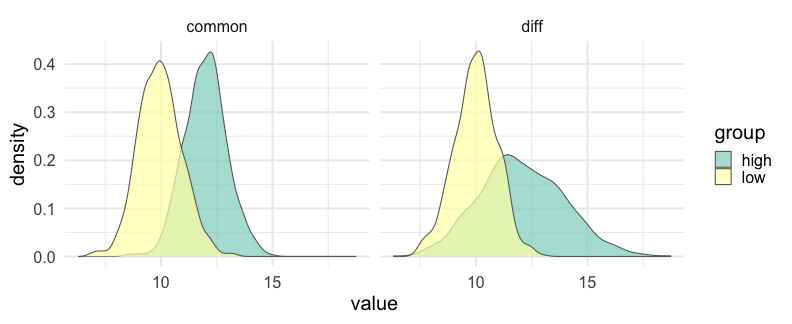
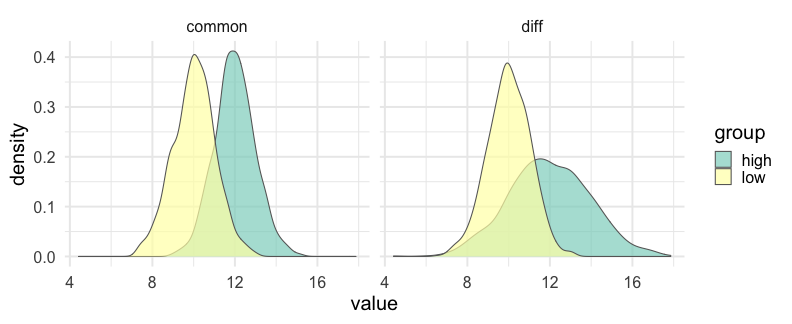
Minor updates to pkg dev slides

diff --git a/static/slides/w10p2.html b/static/slides/w10p2.html
@@ -58,6 +58,12 @@ layout: true
 ---
 # Agenda
 
+* Basics of package development
+
+* An example from my first CRAN package
+
+* Creating a package (we'll actually do it!)
+
 ---
 # Want to follow along?
 
@@ -148,12 +154,12 @@ head(d)
 ## # A tibble: 6 x 3
 ##         low     high var   
 ##       &lt;dbl&gt;    &lt;dbl&gt; &lt;chr&gt; 
-## 1  9.549110 13.50911 common
-## 2  9.350832 12.93887 common
-## 3 10.40181  12.20612 common
-## 4 10.81037  10.52069 common
-## 5 10.79728  12.71338 common
-## 6  9.672677 10.68060 common
+## 1  7.855059 10.69834 common
+## 2 10.40831  11.51090 common
+## 3  9.980279 10.84525 common
+## 4 10.76777  13.45303 common
+## 5  9.934628 11.16377 common
+## 6  9.520182 10.47681 common
 ```
 
 ---
@@ -174,16 +180,16 @@ d
 ## # A tibble: 4,000 x 3
 ##    var    group     value
 ##    &lt;chr&gt;  &lt;chr&gt;     &lt;dbl&gt;
-##  1 common low    9.549110
-##  2 common high  13.50911 
-##  3 common low    9.350832
-##  4 common high  12.93887 
-##  5 common low   10.40181 
-##  6 common high  12.20612 
-##  7 common low   10.81037 
-##  8 common high  10.52069 
-##  9 common low   10.79728 
-## 10 common high  12.71338 
+##  1 common low    7.855059
+##  2 common high  10.69834 
+##  3 common low   10.40831 
+##  4 common high  11.51090 
+##  5 common low    9.980279
+##  6 common high  10.84525 
+##  7 common low   10.76777 
+##  8 common high  13.45303 
+##  9 common low    9.934628
+## 10 common high  11.16377 
 ## # … with 3,990 more rows
 ```
 
@@ -237,14 +243,15 @@ binned_es(common, value ~ group)
 
 ```
 ## # A tibble: 6 x 11
-##       q  qtile_lb  qtile_ub group_ref group_foc mean_diff length length1       psd        es      es_se
-##   &lt;dbl&gt;     &lt;dbl&gt;     &lt;dbl&gt; &lt;chr&gt;     &lt;chr&gt;         &lt;dbl&gt;  &lt;int&gt;   &lt;int&gt;     &lt;dbl&gt;     &lt;dbl&gt;      &lt;dbl&gt;
-## 1     1 0         0.3333333 high      low       -2.048922   1000    1000 0.9650763 -2.122271 0.05591828
-## 2     2 0.3333333 0.6666667 high      low       -2.080733   1000    1000 0.9650763 -2.155220 0.05623269
-## 3     3 0.6666667 1         high      low       -1.992408   1000    1000 0.9650763 -2.063733 0.05536739
-## 4     1 0         0.3333333 low       high       2.048922   1000    1000 0.9650763  2.122271 0.05591828
-## 5     2 0.3333333 0.6666667 low       high       2.080733   1000    1000 0.9650763  2.155220 0.05623269
-## 6     3 0.6666667 1         low       high       1.992408   1000    1000 0.9650763  2.063733 0.05536739
+##       q  qtile_lb  qtile_ub group_ref group_foc mean_diff length length1
+##   &lt;dbl&gt;     &lt;dbl&gt;     &lt;dbl&gt; &lt;chr&gt;     &lt;chr&gt;         &lt;dbl&gt;  &lt;int&gt;   &lt;int&gt;
+## 1     1 0         0.3333333 high      low       -2.035098   1000    1000
+## 2     2 0.3333333 0.6666667 high      low       -1.930967   1000    1000
+## 3     3 0.6666667 1         high      low       -1.957844   1000    1000
+## 4     1 0         0.3333333 low       high       2.035098   1000    1000
+## 5     2 0.3333333 0.6666667 low       high       1.930967   1000    1000
+## 6     3 0.6666667 1         low       high       1.957844   1000    1000
+## # … with 3 more variables: psd &lt;dbl&gt;, es &lt;dbl&gt;, es_se &lt;dbl&gt;
 ```
 
 ```r
@@ -253,14 +260,15 @@ binned_es(diff, value ~ group)
 
 ```
 ## # A tibble: 6 x 11
-##       q  qtile_lb  qtile_ub group_ref group_foc mean_diff length length1      psd         es      es_se
-##   &lt;dbl&gt;     &lt;dbl&gt;     &lt;dbl&gt; &lt;chr&gt;     &lt;chr&gt;         &lt;dbl&gt;  &lt;int&gt;   &lt;int&gt;    &lt;dbl&gt;      &lt;dbl&gt;      &lt;dbl&gt;
-## 1     1 0         0.3333333 high      low       -1.098328   1000    1000 1.498662 -0.7325977 0.04619822
-## 2     2 0.3333333 0.6666667 high      low       -1.967218   1000    1000 1.498662 -1.312157  0.04930276
-## 3     3 0.6666667 1         high      low       -3.133526   1000    1000 1.498662 -2.090098  0.05561428
-## 4     1 0         0.3333333 low       high       1.098328   1000    1000 1.498662  0.7325977 0.04619822
-## 5     2 0.3333333 0.6666667 low       high       1.967218   1000    1000 1.498662  1.312157  0.04930276
-## 6     3 0.6666667 1         low       high       3.133526   1000    1000 1.498662  2.090098  0.05561428
+##       q  qtile_lb  qtile_ub group_ref group_foc  mean_diff length length1
+##   &lt;dbl&gt;     &lt;dbl&gt;     &lt;dbl&gt; &lt;chr&gt;     &lt;chr&gt;          &lt;dbl&gt;  &lt;int&gt;   &lt;int&gt;
+## 1     1 0         0.3333333 high      low       -0.9691199   1000    1000
+## 2     2 0.3333333 0.6666667 high      low       -1.922010    1000    1000
+## 3     3 0.6666667 1         high      low       -2.981083    1000    1000
+## 4     1 0         0.3333333 low       high       0.9691199   1000    1000
+## 5     2 0.3333333 0.6666667 low       high       1.922010    1000    1000
+## 6     3 0.6666667 1         low       high       2.981083    1000    1000
+## # … with 3 more variables: psd &lt;dbl&gt;, es &lt;dbl&gt;, es_se &lt;dbl&gt;
 ```
 
 ---
@@ -795,7 +803,7 @@ class: inverse-blue center middle
 
 --
 
-* Now all your code will be automatically tested each time you push! You can even test on different operating systems and different versions of R!
+* Now all your code will be automatically tested each time you push!
 
 &lt;img src = "https://media.giphy.com/media/3ohzAu2U1tOafteBa0/giphy.gif" height = 200, align = "right" /&gt;
 
